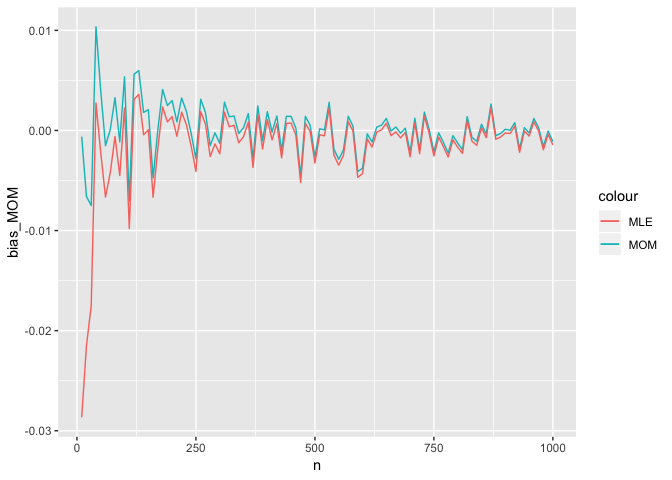
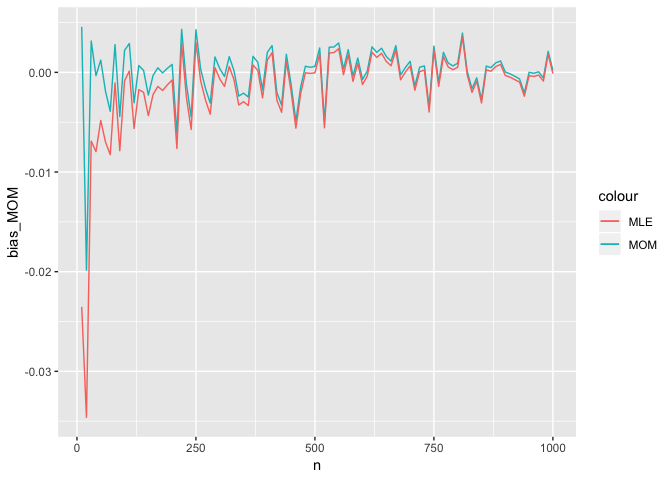
commit to changes

diff --git a/Log_Normal_Data_Simulation.md b/Log_Normal_Data_Simulation.md
@@ -18,11 +18,7 @@ expected_mean_est_MLE <- NULL
 bias_MOM <- NULL
 bias_MLE <- NULL
 
-<<<<<<< HEAD
 n <- seq(10,1000,by = 10)
-=======
-n <- seq(10,100,by = 10)
->>>>>>> 17c6b275468ffb15fb169c51df2a82d6d4b6ea11
 trials <- 10000
 
 for (j in 1:length(n)) {
